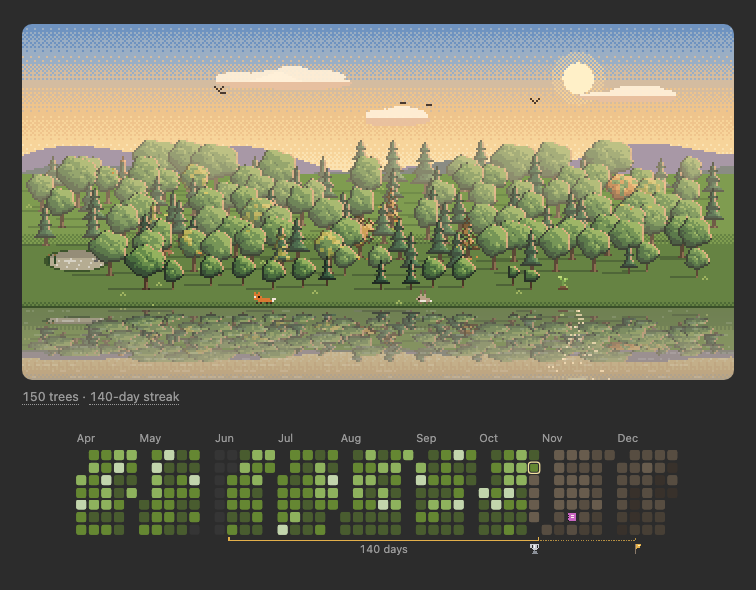
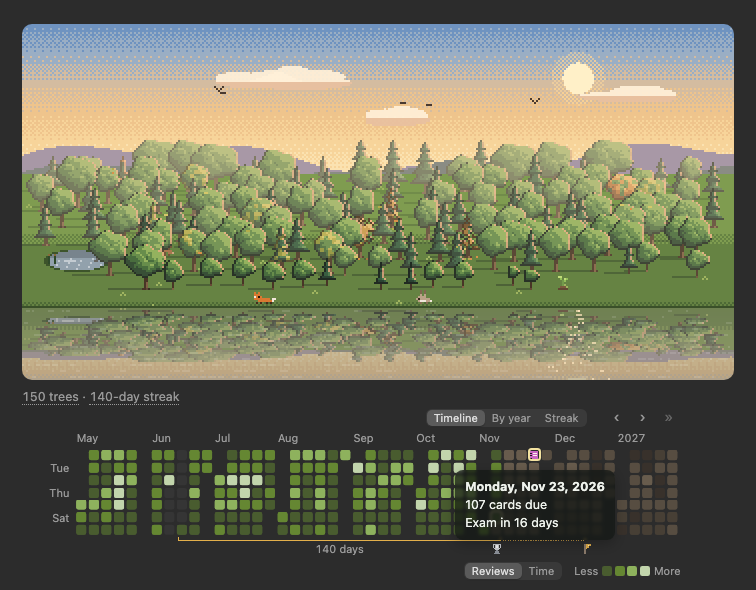
docs: update docs

diff --git a/docs/ankiweb.html b/docs/ankiweb.html
@@ -1,6 +1,6 @@
 <b>A forest and a study heatmap that grow from your Anki study history.</b> Every day you learn new cards plants a tree below your deck list, and the heatmap under it shows the days you studied, your streak and the reviews ahead. There is nothing to click and nothing to manage: just study, and watch it grow.
 
-<div><img src="https://raw.githubusercontent.com/baraklevy20/memory-forest/main/docs/panel.png" alt="The forest by the lake at golden hour, with its study heatmap under it: days studied in green, a silver streak trophy, a goal flag, an exam marker, and cards coming due in brown"></div>
+<div><img src="https://raw.githubusercontent.com/baraklevy20/memory-forest/main/docs/panel.png" alt="The forest by the lake at golden hour, with its study heatmap under it: days studied in green, a silver streak trophy, a goal flag, an exam marker with its tooltip open (Exam in 16 days), and cards coming due in brown"></div>
 <div>&nbsp;</div>
 <b>How the forest grows</b>
 

diff --git a/dev/docs_pictures.py b/dev/docs_pictures.py
@@ -8,7 +8,7 @@ Uses made-up history unless --collection is supplied.
 
 panel.png: the pages' first picture, the panel as Anki shows it: the forest by the lake, with the
 animals of its first year, and its heatmap under it, visible streak labels, the current streak's
-silver trophy, its next goal's flag, and an upcoming exam note.
+silver trophy, its next goal's flag, and an upcoming exam with its tooltip open (the countdown to it).
 heatmap_sceneries.png: one heatmap in five sceneries, each beside its picker picture, with
 its current trophy and flag and no other streak markers.
 layout.png: Anki's deck list with a made-up Japanese deck (made up with --collection too), Chalkboard beside it
@@ -166,7 +166,7 @@ def page(mood: dict, data: dict, width: int, extra_css: str = "", head: str = ""
     css = open(os.path.join(catalog.WEB, "forest.css"), encoding="utf-8").read()
     tags = script_tags(mood, data)
     return f"""<!doctype html><meta charset="utf-8">{head}<style>body {{ margin: 0; padding: 0; background: {PAGE_BG}; color: {PAGE_FG};
---fg: {PAGE_FG}; --fg-subtle: #999 }} #p {{ width: {width}px; padding: 24px 22px 10px }} {css} .af-cal-tip {{ display: none !important }} .af-cal .af-cal-above {{ opacity: 1 }} {extra_css}</style>
+--fg: {PAGE_FG}; --fg-subtle: #999 }} #p {{ width: {width}px; padding: 24px 22px 10px }} {css} .af-cal-tip {{ display: none !important }} body.af-shot-tip .af-cal-tip:not([hidden]) {{ display: block !important; z-index: 9 }} .af-cal .af-cal-above {{ opacity: 1 }} {extra_css}</style>
 <div class="af-panel" id="p"></div><script>window.pycmd = () => false;</script>{tags}
 <script>AnkiForest.mount(document.getElementById('p'), {json.dumps(data)}{', ' + json.dumps(opts) if opts else ''});</script>"""
 
@@ -257,6 +257,16 @@ for (const j of jobs) {
   await p.waitForSelector('.af-cal-canvas', { timeout: 15000 });
   await new Promise(r => setTimeout(r, 1500));
   const el = await p.$(j.shoot);
+  if (j.tipDays !== undefined) {
+    // (a day's tooltip open in the shot: that day by the keyboard, as page_check does, today and then
+    // a day on per press; the pointer's hover didn't last until the shot)
+    await p.evaluate(() => { document.body.classList.add('af-shot-tip'); document.querySelector('.af-cal-canvas:not(.af-cal-past-weeks)').focus(); });
+    await p.keyboard.press('Home');
+    for (let i = 0; i < j.tipDays; i++) await p.keyboard.press('ArrowDown');
+    await new Promise(r => setTimeout(r, 1200));
+    if (!(await p.evaluate(m => { const t = document.querySelector('.af-cal-tip'); return !!t && !t.hidden && t.textContent.includes(m); }, j.tipHas)))
+      throw new Error('no tooltip saying ' + j.tipHas);
+  }
   if (j.fromMonth !== undefined) {
     const clip = await el.evaluate((e, month, pad) => {
       const r = e.getBoundingClientRect();
@@ -345,14 +355,18 @@ def main() -> None:
             return
         # the big picture: the forest and its heatmap, with the streak labels unobstructed, and the
         # animals its numbers bring but those that take years (left for people to find, as in the GIFs)
-        note = {"day": (dt.date.today() + dt.timedelta(days=18)).isoformat(), "icon": "exam", "name": "Exam"}
+        # (its exam on a Monday two weeks ahead, the heatmap's top row, its tooltip open with the countdown:
+        # under the top row it covers only days to come, and leaves the trophy and the flag in view)
+        monday = dt.date.today() + dt.timedelta(days=(7 - dt.date.today().weekday()) % 7 or 7)
+        note = {"day": (monday + dt.timedelta(days=14)).isoformat(), "icon": "exam", "name": "Exam"}
         big = dict(forest_data(lake), calendar=calendar(lake, [note]), showForest=True)
         if REAL_DATA is None:
             big["visitors"] = [v for v in milestones.for_page(fake_forest.visitors(big["stats"])) if v["key"] not in YEARS_AWAY]
         path = os.path.join(tmp, "big.html")
         with open(path, "w", encoding="utf-8") as f:
             f.write(page(lake, big, 756, ".af-cog { display: none !important }"))
-        jobs.append({"page": path, "width": 800, "shoot": "#p", "out": os.path.join(DOCS, "panel.png")})
+        jobs.append({"page": path, "width": 800, "shoot": "#p", "tipDays": (dt.date.fromisoformat(note["day"]) - dt.date.today()).days,
+                     "tipHas": note["name"], "out": os.path.join(DOCS, "panel.png")})
         # the sceneries: the heatmap alone, with only the current trophy and flag revealed
         shots = {}
         for key, tiles, view in ROWS:

diff --git a/README.md b/README.md
@@ -5,7 +5,7 @@ cards plants a tree below your deck list, and the heatmap under it shows the day
 your streak and the reviews ahead. There is nothing to click and nothing to manage: just study,
 and watch it grow.
 
-<p align="center"><img src="docs/panel.png" alt="The forest by the lake at golden hour, with its study heatmap under it: days studied in green, a silver streak trophy, a goal flag, an exam marker, and cards coming due in brown"></p>
+<p align="center"><img src="docs/panel.png" alt="The forest by the lake at golden hour, with its study heatmap under it: days studied in green, a silver streak trophy, a goal flag, an exam marker with its tooltip open (Exam in 16 days), and cards coming due in brown"></p>
 
 **[Get it on AnkiWeb](https://ankiweb.net/shared/info/1255432496)** · add-on code `1255432496`
 
